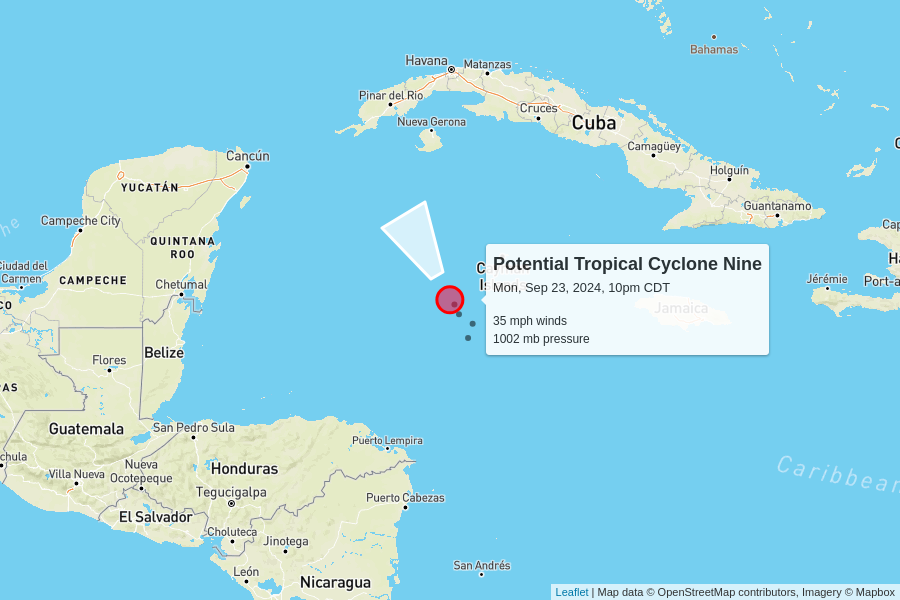
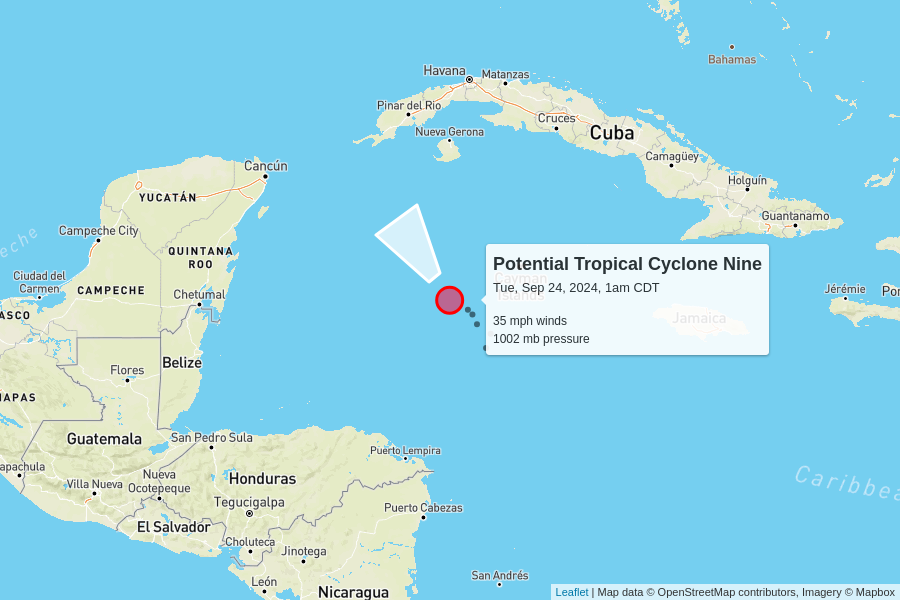
automatic update

diff --git a/docs/index.html b/docs/index.html
@@ -102,7 +102,7 @@
         <td colspan="6" class="storm category-0" >
           <h2>
             Potential Tropical Cyclone Nine
-            <p class="updated">last updated <span data-time>2024-09-24T03:00:00.000Z</span></p>
+            <p class="updated">last updated <span data-time>2024-09-24T06:00:00.000Z</span></p>
           </h2>
         </td>
       </tr>
@@ -120,9 +120,9 @@
         <td>35 mph<br>0 mph since last update</td>
         <td>1002 mb<br>0 mb since last update</td>
         <td>
-          6 mph to the north-northwest
+          6 mph to the northwest
           <br/>
-          <span style="display: inline-block; font-size: 1.5em; transform: rotate(330deg);">↑</span>
+          <span style="display: inline-block; font-size: 1.5em; transform: rotate(325deg);">↑</span>
         </td>
         <td><a href="https://raw.githubusercontent.com/mgwalker/atlantic-hurricanes/main/data/csv/AL092024.csv">AL092024.csv</a></td>
         <td><a href="https://www.nhc.noaa.gov/archive/2024/NINE.shtml?">NHC advisories</a></td>
